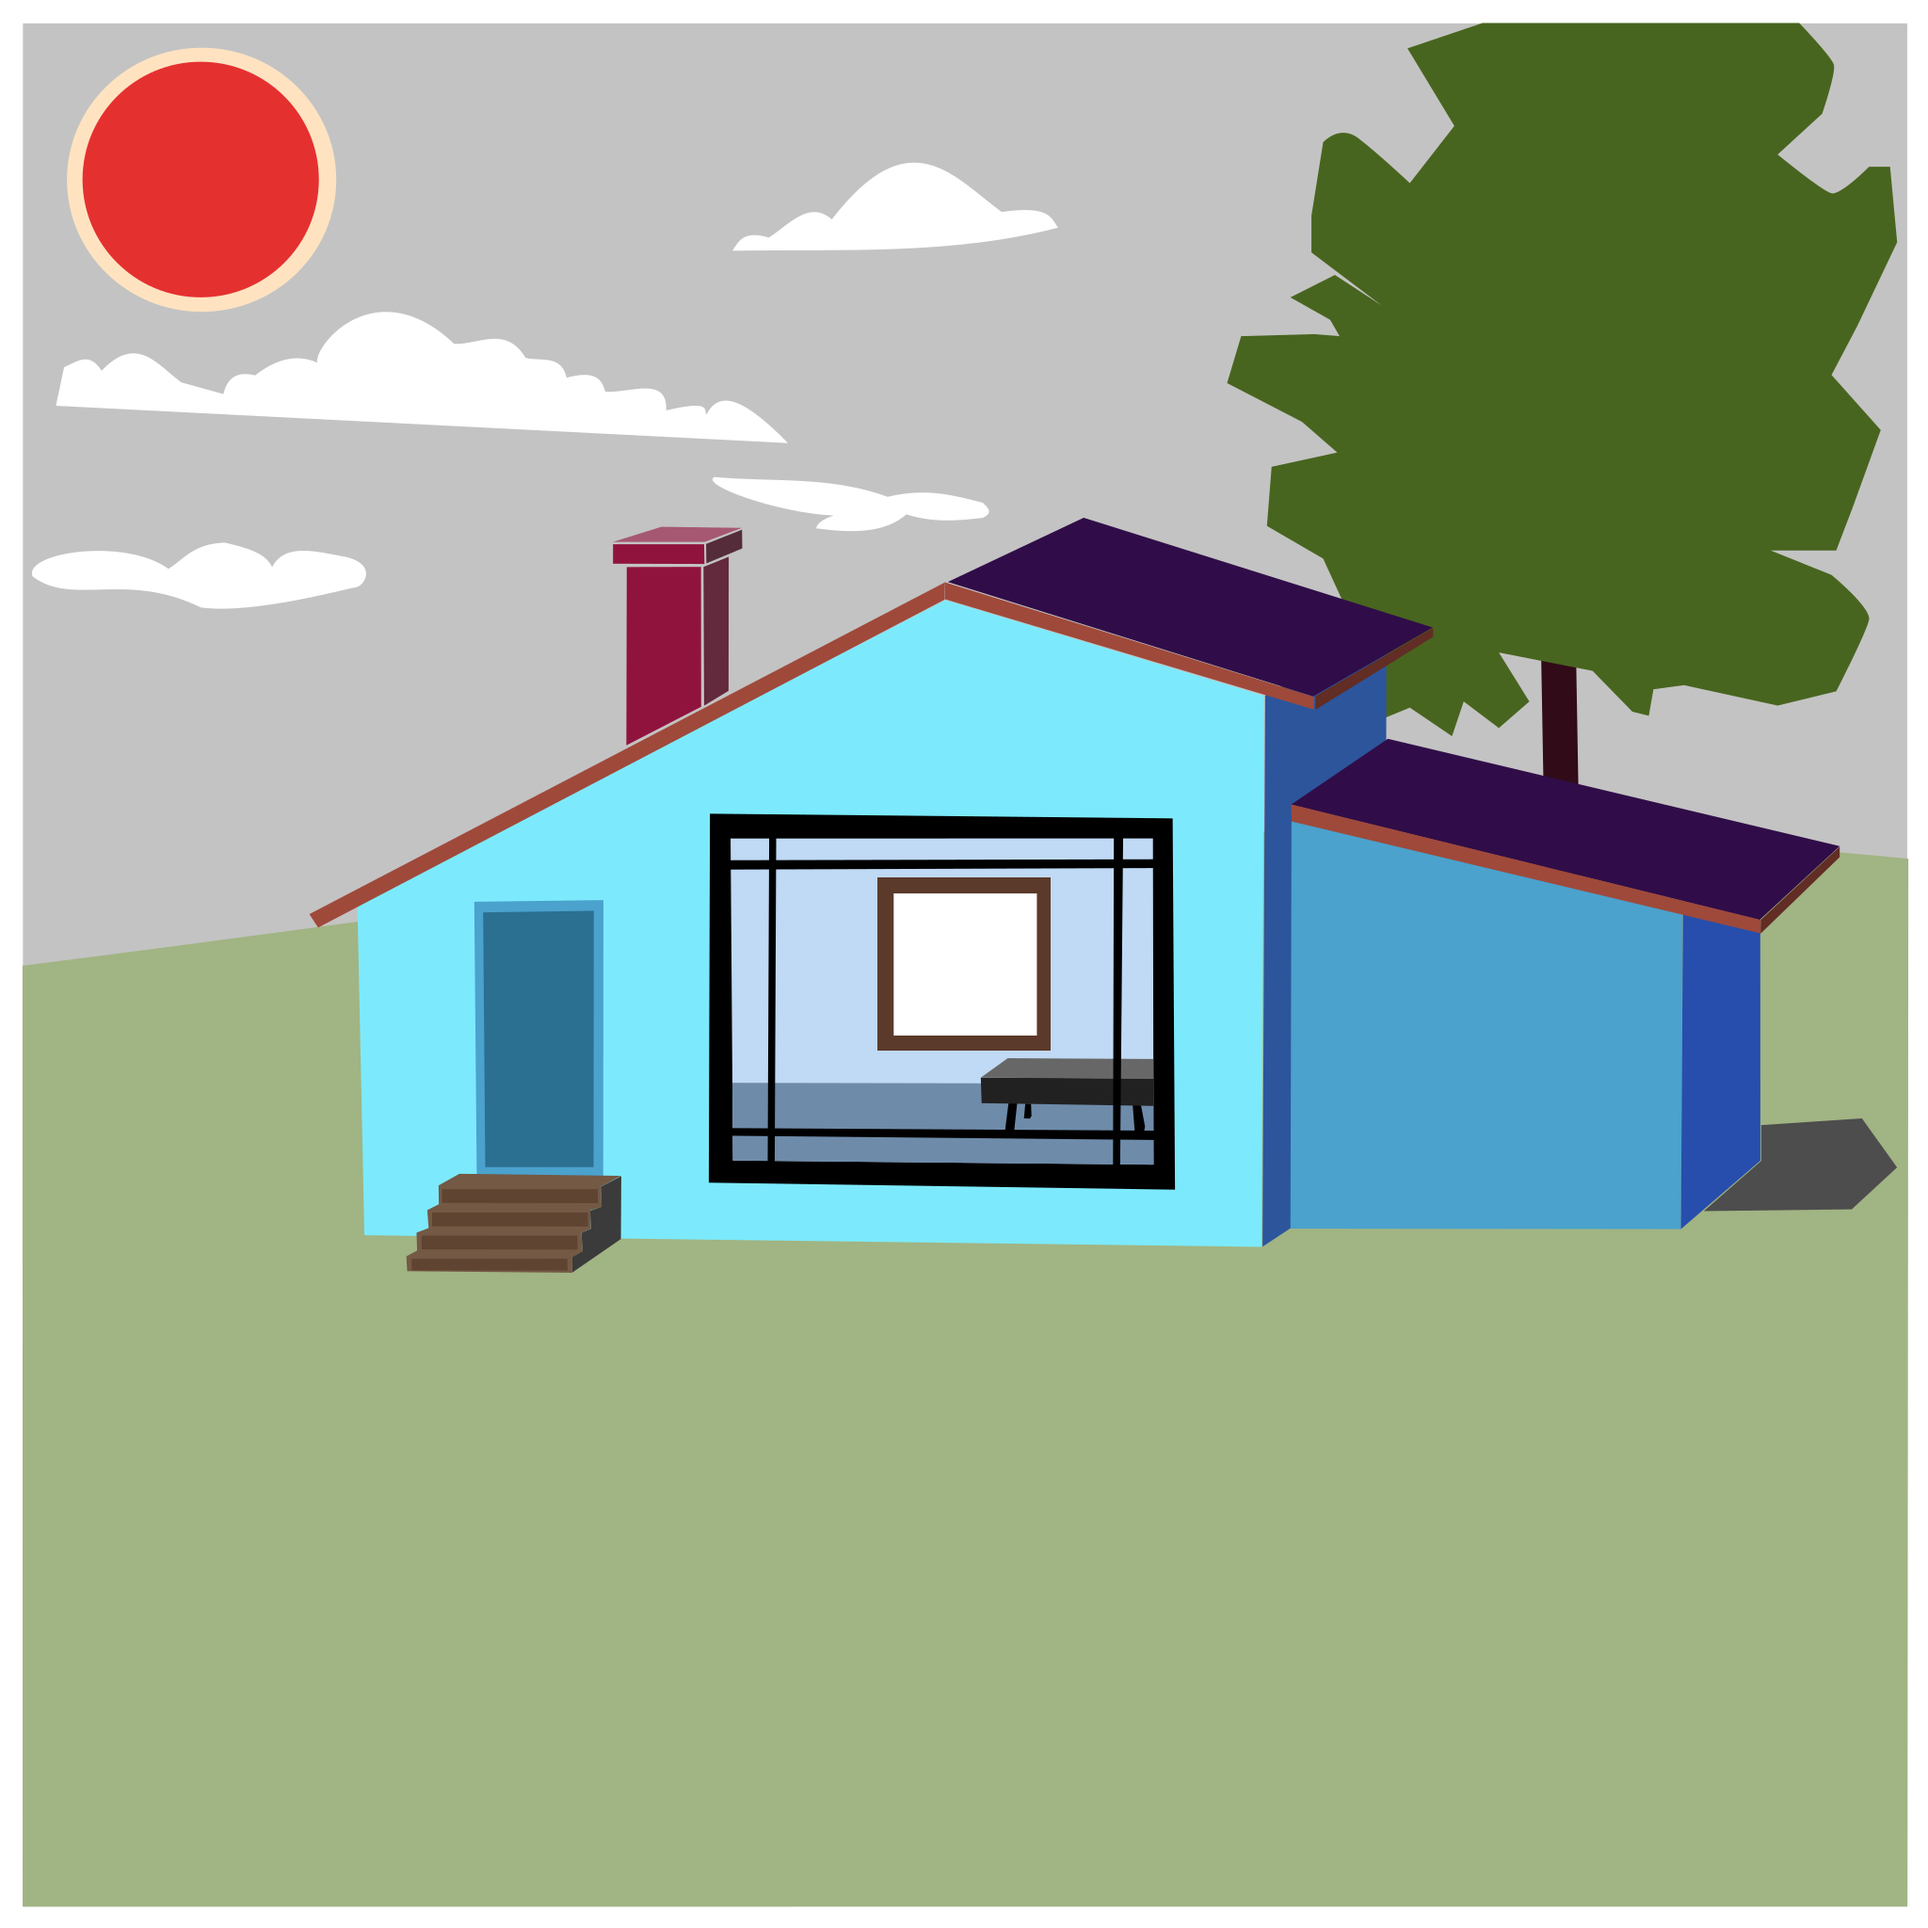
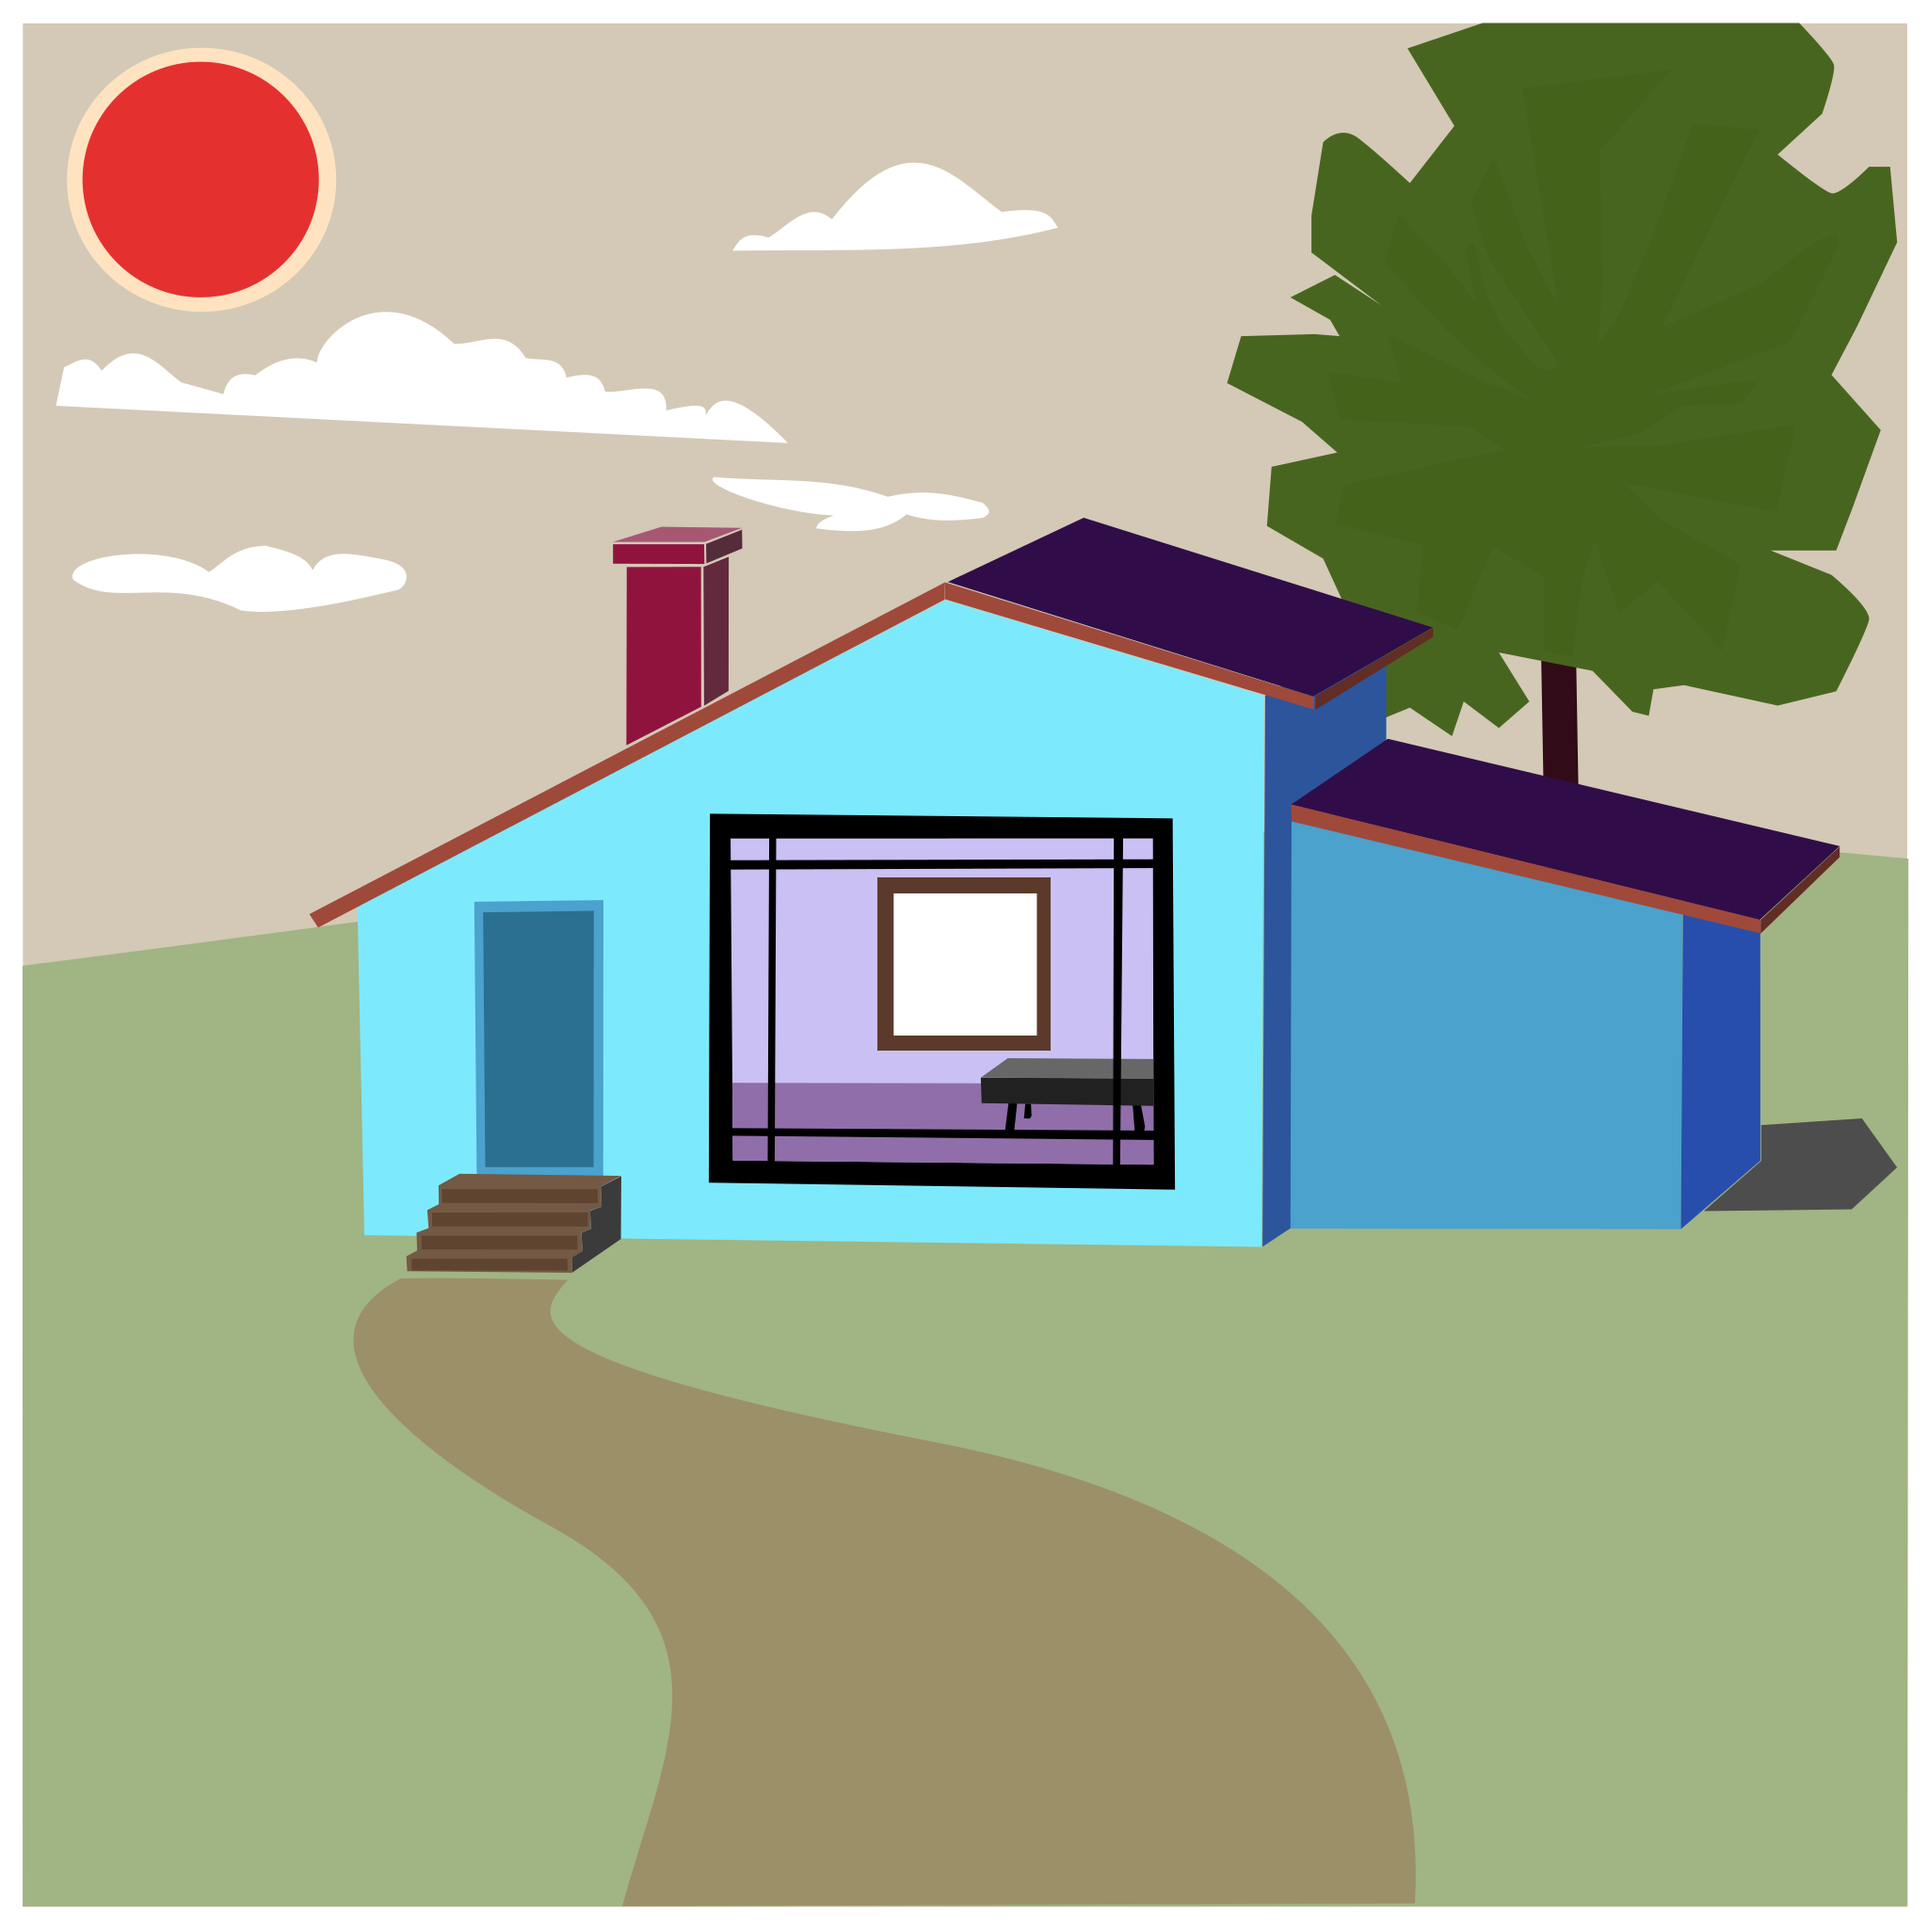
adjust colors

Changed region(s): [[0.1875, 0.6562, 0.75, 1.0], [0.375, 0.4375, 0.625, 0.625], [0.0, 0.2812, 0.2188, 0.3438]]

diff --git a/index.html b/index.html
@@ -117,7 +117,7 @@
 
             const canvas = window.cnv;
 
-            const texture = await loadImage("escher.svg", 2 * 2048, 2 * 2048);
+            const texture = await loadImage("escher.png", 2 * 2048, 2 * 2048);
             const regl = createREGL({
                 canvas: cnv,
                 pixelRatio: window.devicePixelRatio,
@@ -169,7 +169,7 @@
               uniform float zoom;
               varying vec2 uv;
               void main () {
-                uv = (0.5 + (pow(2.0, zoom) * ((vec2(1.0-position.x, position.y + 0.04 * position.x) - vec2(ctrl.x, ctrl.y) / 2.0)- 0.5))) ;
+                uv = (0.5 + (pow(2.0, zoom) * ((vec2(1.0-position.x, position.y + 0.06 * position.x) - vec2(ctrl.x, ctrl.y) / 2.0)- 0.5))) ;
                 gl_Position = vec4(1.0 - 2.0 * position, 0, 1);
               }`,
 
